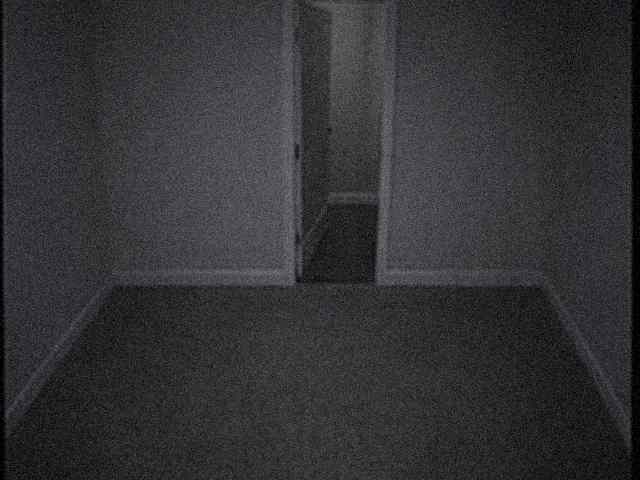
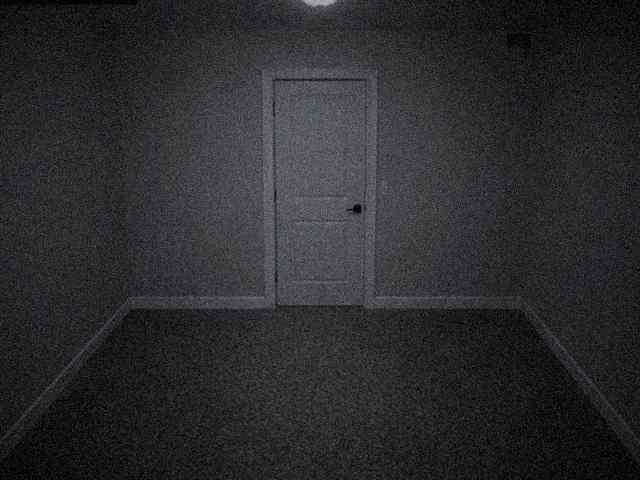
Single-camera view, cam 07/08 outside the slot system, revised ending
One feed at a time with a selector strip: a 2-up grid at 375px makes a
shoulder at the frame edge unfindable, and switching feeds is now a
counted action the mirrored states can key off.

Cameras 07 and 08 are not the player s and never consume a slot. The
header carries the online count, so the count changing is the reveal.

Adds the seven cam 07 states and the monitoring station, captions and
timestamps cropped off so the interface never interprets a frame.

diff --git a/js/app.js b/js/app.js
@@ -5,7 +5,8 @@ const zoneById = id => HOUSE.zones.find(z => z.id === id);
 let S, tab = 'home', busy = false;
 
 function fresh(){
-  return { night:1, armed:[], locks:{front:false,back:false,garage:false}, log:[], flags:{}, lastSummary:null };
+  return { night:1, armed:[], locks:{front:false,back:false,garage:false}, log:[], flags:{},
+           lastSummary:null, camIndex:0, camSwitches:0 };
 }
 function save(){ try{ localStorage.setItem(SAVE_KEY, JSON.stringify(S)); }catch(e){} }
 function load(){
@@ -220,27 +221,66 @@ function lastStillFor(zoneId){
   return null;
 }
 
+/* The camera list is not the same thing as the sensor list. Cameras 07 and 08
+   are not the player's and never consume an arming slot - they report whether
+   they were asked to or not. */
+function feedList(){
+  const out = HOUSE.zones.filter(z => z.kind === 'camera')
+    .map(z => ({ id:z.id, label:z.label, code:null }));
+  if(S.flags.cam07) out.push({ id:'cam07', label:'Unknown', code:'CAM 07', still:S.flags.cam07State || 'room_a' });
+  if(S.flags.cam08) out.push({ id:'cam08', label:'Local',   code:'CAM 08', still:S.flags.cam08State || 'local_a' });
+  return out;
+}
+
+function selectCam(i){
+  const feeds = feedList();
+  S.camIndex = (i + feeds.length) % feeds.length;
+  S.camSwitches++;
+  save();
+  render();
+}
+
 function screenCameras(){
   const wrap = document.createDocumentFragment();
-  const note = el('div', 'card');
-  const np = el('div', 'card-pad');
-  np.style.fontSize = '13px';
-  np.appendChild(el('div', 'muted', 'Live view is unavailable while away mode is enabled. Showing last capture.'));
-  note.appendChild(np);
-  wrap.appendChild(note);
+  const feeds = feedList();
+  if(S.camIndex >= feeds.length) S.camIndex = 0;
+  const cam = feeds[S.camIndex];
+  const last = cam.still ? null : lastStillFor(cam.id);
+  const still = cam.still || (last && last.still);
 
-  const grid = el('div', 'grid2');
-  for(const z of HOUSE.zones.filter(x => x.kind === 'camera')){
-    const last = lastStillFor(z.id);
-    const box = el('div');
-    box.appendChild(feedTile(last && last.still, last ? last.t : '', z.label));
-    const cap = el('div', 'muted', last ? 'Last capture ' + last.date : 'No captures');
-    cap.style.fontSize = '11px';
-    cap.style.marginTop = '5px';
-    box.appendChild(cap);
-    grid.appendChild(box);
-  }
-  wrap.appendChild(grid);
+  const card = el('div', 'card');
+  const big = feedTile(still, last ? last.date + '  ' + last.t : '', cam.code || cam.label);
+  big.style.borderRadius = '0';
+  card.appendChild(big);
+
+  const nav = el('div', 'camnav');
+  const prev = el('button', 'navbtn', '‹');
+  prev.setAttribute('aria-label', 'Previous camera');
+  prev.addEventListener('click', () => selectCam(S.camIndex - 1));
+  const mid = el('div', 'grow');
+  mid.appendChild(el('div', 'lab', cam.code ? cam.code + ' — ' + cam.label.toLowerCase() : cam.label));
+  mid.appendChild(el('div', 'sub', still ? (last ? 'Last capture ' + last.date : 'Last capture') : 'No captures'));
+  mid.style.textAlign = 'center';
+  const next = el('button', 'navbtn', '›');
+  next.setAttribute('aria-label', 'Next camera');
+  next.addEventListener('click', () => selectCam(S.camIndex + 1));
+  nav.appendChild(prev); nav.appendChild(mid); nav.appendChild(next);
+  card.appendChild(nav);
+  wrap.appendChild(card);
+
+  const chips = el('div', 'camchips');
+  feeds.forEach((f, i) => {
+    const c = el('button', 'chip' + (i === S.camIndex ? ' sel' : ''), f.code || f.label);
+    c.addEventListener('click', () => selectCam(i));
+    chips.appendChild(c);
+  });
+  wrap.appendChild(chips);
+
+  const note = el('div', 'dim');
+  note.style.fontSize = '12px';
+  note.style.textAlign = 'center';
+  note.textContent = 'Live view is unavailable in away mode. Showing last capture.';
+  wrap.appendChild(note);
   return wrap;
 }
 
@@ -367,6 +407,7 @@ function render(){
   const sub = document.getElementById('barSub');
   if(tab === 'home') sub.textContent = S.night > NIGHTS.length ? HOUSE.address : 'Night ' + S.night + ' · ' + NIGHTS[S.night - 1].date;
   else if(tab === 'activity') sub.textContent = S.log.length ? 'Last 7 days' : '';
+  else if(tab === 'cameras') sub.textContent = feedList().length + ' cameras online';
   else sub.textContent = '';
 
   const scr = document.getElementById('screen');
@@ -377,6 +418,8 @@ function render(){
     tab === 'cameras' ? screenCameras() : screenSettings()
   );
   for(const b of document.querySelectorAll('.tab')) b.classList.toggle('sel', b.dataset.tab === tab);
+  const selChip = document.querySelector('.camchips .sel');
+  if(selChip) selChip.scrollIntoView({ block:'nearest', inline:'center' });
   window.scrollTo(0, 0);
 }
 

diff --git a/css/app.css b/css/app.css
@@ -103,3 +103,10 @@ svg.plan{display:block;width:100%;height:auto;background:#101316}
 @keyframes fade{from{opacity:0}to{opacity:1}}
 .floorlab{padding:9px 16px 5px;font-size:11px;letter-spacing:.08em;text-transform:uppercase;
   color:var(--dim);border-top:1px solid var(--line);background:#121518}
+.camnav{display:flex;align-items:center;gap:8px;padding:10px 12px;border-top:1px solid var(--line)}
+.navbtn{width:40px;height:40px;flex:none;border-radius:var(--radius);border:1px solid var(--line);
+  background:var(--surface2);color:var(--text);font:inherit;font-size:20px;line-height:1;cursor:pointer}
+.navbtn:active{transform:scale(.96)}
+.camchips{display:flex;gap:8px;overflow-x:auto;padding:2px 0 6px}
+.camchips .chip{white-space:nowrap;cursor:pointer;font:inherit;font-size:12px;padding:6px 11px}
+.camchips .chip.sel{background:#23405c;border-color:#2f5b83;color:#dbe9f7}

diff --git a/DESIGN.md b/DESIGN.md
@@ -70,128 +70,150 @@ Hold long enough that the player confirms all six are clean.
 The status line has always read `6 cameras online`. Without comment it becomes
 `7 cameras online`.
 
-No warning, no alert. The player should notice on their own. A new entry
-appears:
+No warning, no alert. A new entry appears:
 
 ```
-CAM 07 — UNKNOWN
+CAM 07
 ```
 
-It corresponds to nothing on the floor plan. Opening it shows `room_a`: bare
-walls, plain flooring, no windows, no furniture, one doorway, same ceiling-corner
-perspective and grade as every other camera.
+The interface never interprets. No caption reads "unknown room", "view: kitchen?"
+or "second camera detected" — those existed for us while designing and must be
+cropped out of the shipped frames. The feed shows the camera name and a
+timestamp, nothing else. The player gets to have the realisation themselves.
 
-Nothing supernatural. The room existing at all is the event. The player stops
-asking who is in the house and starts asking where this camera is.
+## Phase 4 — camera 07
 
-## Phase 4 — camera 07 evolves
+Seven states of one fixed camera position. Ordinary room, one doorway.
 
-Discrete states, spaced out across normal play. Never back to back.
-
-| State | Change |
+| File | State |
 |---|---|
-| 1 | Bare room, doorway visible, nothing unusual. |
-| 2 | Identical composition. The doorway is now completely dark. Nothing else changes. |
-| 3 | A barely visible human silhouette deep inside the doorway. No face, no eyes, no monster features. |
-| 4 | The figure is gone. Room empty again. |
-| 5 | A desk and chair now exist in the room. They were never there. |
-| 6 | A monitor on the desk, displaying a six-camera security interface that visibly resembles the player's own. **First major reveal.** |
-| 7 | The desk chair is pulled away from the desk. |
-| 8 | A person is sitting in it, facing the monitors, back to camera 07. Not identifiable. No face. |
+| `room_a` | Door closed. Aggressively ordinary. |
+| `room_b` | Door open onto complete darkness. |
+| `room_c` | Door open onto the living room. |
+| `room_d` | Door open onto the kitchen. |
+| `room_e` | Door open onto the upstairs hallway. |
+| `room_f` | Door closed. A second camera is now mounted in the corner, pointed back at this one. A shadow falls across the wall with nothing present to cast it. |
 
-## Phase 5 — mirrored behaviour
+`room_c` → `room_d` → `room_e` is where the player learns the rule without being
+told it: the doorway does not lead anywhere fixed. Three data points is enough.
 
-Camera 07 responds to the player, in discrete stills rather than animation.
-Switching feeds may shift the seated figure's hand near the mouse. Going idle
-leaves them motionless. Selecting another camera may reposition them slightly
-toward the monitor.
+`room_f` is never explained. Not in the log, not in settings, not in the ending.
 
-Never state that the figure is copying the player. Let them land on it.
+### Pacing
 
-## Phase 6 — motion alerts
+Never run the states in order. Camera 07 should often be unchanged across several
+checks, and it should revert:
 
 ```
-MOTION DETECTED — CAM 07
+a  a  b  b  a  c  c  d  a  e  f
 ```
 
-The desk and monitors are still there. The chair is empty. Then, with pauses:
+If something new happens every time the player opens it, they learn that opening
+it is what causes the change, and it becomes a slot machine. Unpredictability —
+including long stretches of nothing — is what keeps them checking.
+
+### No further cameras
+
+Camera 07 is the impossible camera. There is no attic, no basement, no camera 09.
+The only addition after this is camera 08, which exists solely for the ending.
+
+## The ending
+
+Short, because camera 07 already delivered the supernatural payload. The house's
+layout stopped making sense; the ending does not need to explain that. It needs
+to turn the attention toward the player.
+
+**Quiet.** All six house cameras return to their original `_a` frames — byte for
+byte the same files, so the player cannot find a difference even if they look
+for one. Camera 07 is gone.
 
 ```
-MOTION DETECTED — HALL      nothing there
-MOTION DETECTED — LIVING    nothing there
-MOTION DETECTED — ENTRY     nothing there
-MOTION DETECTED — PORCH     nothing there
+6 cameras online
 ```
 
-Something is crossing the house toward somewhere. Never show it moving between
-cameras. The absence carries it.
+Let them sit with it.
 
-## Phase 7 — the eighth camera
-
-```
-8 cameras online
-CAM 08 — LOCAL
-```
-
-Selecting it holds on black for 1.5–3 seconds before the image loads.
-
-The frame shows an in-universe monitoring station: desk, computer, chair, a dim
-room, the security interface visible on the monitor, a person seated, camera
-mounted behind or above them. The player should recognise the person at the
-desk as themselves.
-
-**This is fictional and must stay fictional.** It never depicts, claims, or
-implies access to the player's real surroundings, camera, or device. The horror
-is perspective, not intrusion.
-
-Behind the seated person stands the shadow figure. Clearest appearance in the
-game, same visual language throughout: human silhouette, no face, no glowing
-eyes, no exaggerated anatomy, no weapon, no gore, no attack pose. Standing.
-Watching the person.
-
-No sting, no zoom, no rush toward camera. Hold the feed long enough that a
-player scanning the frame eventually finds it.
-
-## Camera failure
-
-After enough time on CAM 08, disconnect the feeds one at a time with deliberate
-pauses:
+**Alerts.** After a long pause, motion alerts arrive one at a time, each feed
+empty when opened:
 
 ```
-CAM 08 — OFFLINE
-CAM 07 — OFFLINE
+MOTION DETECTED — ENTRY     nothing
+MOTION DETECTED — LIVING    nothing
+MOTION DETECTED — HALL      nothing
+MOTION DETECTED — PORCH     nothing
+```
+
+The route must not be walkable. A player who traces it on the floor plan should
+find it impossible, not merely unlucky.
+
+Vary the reliability rather than the content, so four empty feeds are not four
+identical beats: the first loads instantly, the second takes a moment, the third
+sits on `reconnecting` for two seconds, the fourth is instant again. The system
+degrades and recovers without ever commenting on it.
+
+The floor plan carries this sequence. Watching a pin cross a map the player
+knows by heart, while every camera shows nothing, is worse than the feeds.
+
+**The porch.** Empty. The front door is closed. Whatever the system tracked
+across the house toward the door never left.
+
+**Eight.**
+
+```
+7 cameras online
+CAM 08
+```
+
+Camera 07 does not come back. The numbering is wrong and nothing acknowledges it.
+
+**The last image.** Two seconds of black, then `local_a`: a dim room, a desk, a
+monitor showing the Away Mode interface with the six house cameras, a person
+seated with their back to us. Behind them, standing, the shadow figure.
+
+In-universe and fictional. It never depicts, claims, or implies access to the
+player's real surroundings, camera, or device. The horror is perspective, not
+intrusion.
+
+No sting, no zoom, no movement. Hold long enough that a player studying the
+monitor eventually notices what is behind the chair. Ten seconds of nothing
+happening.
+
+**Signal loss.** Then, with pauses:
+
+```
+CAM 08 SIGNAL LOST
 HALL — OFFLINE
 UTILITY — OFFLINE
 LIVING — OFFLINE
 KITCHEN — OFFLINE
 ENTRY — OFFLINE
 PORCH — OFFLINE
-```
-
-The interface empties out. Then:
-
-```
 NO CAMERAS ONLINE
 ```
 
-Hold several seconds. No music, minimal ambient system noise. Then:
+Black. Hold longer than is comfortable. Then the app's own friendly chime — the
+same pleasant sound it has used for every routine notification all game — and:
 
 ```
 AWAY MODE DISABLED
 Reason: Home detected.
 ```
 
-Hold. Fade. Title card: `AWAY MODE`. Pause. Credits.
+Black. `AWAY MODE`. Pause. Credits.
+
+No epilogue. The owners never come back. Nothing is explained — not the figure,
+not camera 07, not why the impossible room connected to the other rooms, and
+above all not what "home detected" means.
 
 ## Prohibited
 
 Jumpscares. Screaming faces. Monsters charging the camera. Glowing eyes. Gore.
-Blood messages. Loud stingers. Any explanation of the entity, camera 07, camera
-08, or the final message.
+Blood messages. Loud stingers. Captions that interpret an image for the player.
+Any explanation of the entity, camera 07, camera 08, or the final message.
 
 ## Readings to preserve
 
-The player should finish with all of these available and none confirmed:
+All available, none confirmed:
 
 - Something entered the house.
 - Something was already inside it.
@@ -205,21 +227,21 @@ The player should finish with all of these available and none confirmed:
 
 ## Open questions
 
-Three places where this design and the current engine need a decision.
+**1. Slot limits versus the quiet phase.** Arming 3 of 10 means the player may
+never see all six clean at once, which is what that beat depends on. Cameras 07
+and 08 are already exempt from the slot system in code — they are not the
+player's and report whether asked or not. The quiet phase still needs a
+`system integrity check` event that captures all six at once. That also sharpens
+the seventh camera's arrival, because it appears in a list the app just called
+complete.
 
-**1. Slot limits versus phases 2, 3 and 7.** The night loop only lets the player
-arm 3 of 10 zones, so they may never see a full clean sweep — which is exactly
-what phase 2 depends on. Proposed fix: cameras 07 and 08 sit outside the slot
-system entirely (you cannot arm what isn't yours, and they report whether you
-asked or not), and phase 2 arrives as a `system integrity check` event that
-captures all six at once. That also makes the seventh camera's arrival land
-harder, because it shows up in a list the player was just told was complete.
+**2. One last decision.** The game's spine is commitment — arming, locking,
+living with it. Proposal: after the porch alert resolves with the door closed,
+the app offers the front door lock one final time. Whether the player throws it
+changes nothing mechanically and the game never comments. But if they do, the
+last thing they did was seal the house, and `Reason: Home detected` lands on
+them rather than at them.
 
-**2. Phase 5 pacing.** Key the mirrored states to camera-switch *count* rather
-than elapsed time. Time-based feels like animation; count-based feels like
-being answered.
-
-**3. Where phase 1 sits.** The current nights 1–5 end at the unmapped-room
-reveal on the floor plan. Phase 1 as written is an aftermath set, so it needs
-the figure to have appeared two or three times first — which means the `_d`
-frames land around nights 4–6 and phase 1 becomes night 7 or 8.
+**3. Where the quiet phase sits.** It is an aftermath beat, so the figure needs
+two or three appearances first. That puts the `_d` frames around nights 4–6 and
+the quiet at night 7 or 8.
